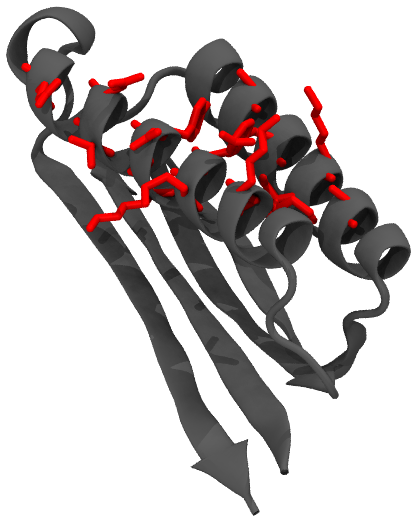
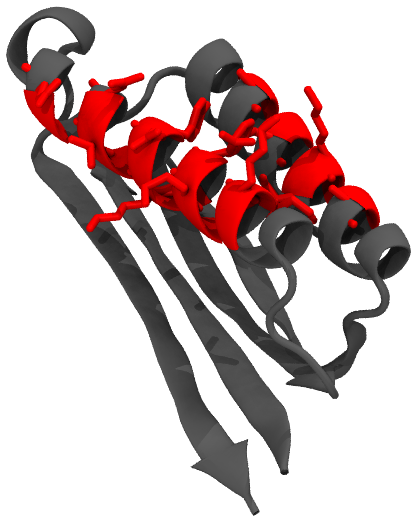
docs(figures): highlight the ribbon as well as licorice; cache-bust images
- render_epitope_fig.tcl / render_islands.tcl: highlighted residues now draw a
  colored NewCartoon ribbon over the grey, in addition to licorice sidechains,
  so the epitope / candidate / island regions read as a colored ribbon segment
  plus sticks. Re-rendered the homepage set and the sequence-segments figure.
- Add ?v=2 to figure image references (home/methods/aomclash) so browsers fetch
  the new renders without a hard refresh.

Claude-Session: https://claude.ai/code/session_01UnbU2XAnf3AQvdSJq3XEXq

Changed region(s): [[0.0625, 0.1228, 0.9375, 0.4914]]

diff --git a/docs/methods.html b/docs/methods.html
@@ -145,7 +145,7 @@ figure.dgm figcaption{font-size:11.5px;color:#6a7686;margin:7px auto 0;max-width
         </svg>
       </div>
       <figure class="fold" style="margin:0">
-        <img src="img/fig/seq_islands.png" loading="lazy"
+        <img src="img/fig/seq_islands.png?v=2" loading="lazy"
              alt="8PWW chain A as a grey ribbon; residues 186-208 (red) and 286-313 (orange) sit next to each other at the top of the fold.">
         <figcaption style="font-size:10.5px;color:#6a7686;margin-top:4px">the two stretches meet in the fold</figcaption>
       </figure>
@@ -187,11 +187,11 @@ figure.dgm figcaption{font-size:11.5px;color:#6a7686;margin:7px auto 0;max-width
     </ul>
     <figure class="dgm">
     <div class="frow">
-      <figure><img src="img/fig/grow_g1.png" loading="lazy" alt="One exposed starting residue in red on the grey molecular surface of 8PWW chain A."><figcaption>1 &middot; pick an exposed seed residue</figcaption></figure>
+      <figure><img src="img/fig/grow_g1.png?v=2" loading="lazy" alt="One exposed starting residue in red on the grey molecular surface of 8PWW chain A."><figcaption>1 &middot; pick an exposed seed residue</figcaption></figure>
       <span class="farrow" aria-hidden="true">&rarr;</span>
-      <figure><img src="img/fig/grow_g2.png" loading="lazy" alt="The seed plus its nearest surface neighbours, a larger red patch on the same surface view."><figcaption>2 &middot; add nearest surface neighbours</figcaption></figure>
+      <figure><img src="img/fig/grow_g2.png?v=2" loading="lazy" alt="The seed plus its nearest surface neighbours, a larger red patch on the same surface view."><figcaption>2 &middot; add nearest surface neighbours</figcaption></figure>
       <span class="farrow" aria-hidden="true">&rarr;</span>
-      <figure><img src="img/fig/grow_g3.png" loading="lazy" alt="A footprint-sized red patch of about sixteen residues on the same surface view."><figcaption>3 &middot; footprint patch (~16 residues)</figcaption></figure>
+      <figure><img src="img/fig/grow_g3.png?v=2" loading="lazy" alt="A footprint-sized red patch of about sixteen residues on the same surface view."><figcaption>3 &middot; footprint patch (~16 residues)</figcaption></figure>
     </div>
     <figcaption>Rendered from 8PWW chain A (molecular surface), using the actual growth procedure:
     growth starts at one exposed surface residue (red) and accretes its nearest surface neighbours until
@@ -201,7 +201,7 @@ figure.dgm figcaption{font-size:11.5px;color:#6a7686;margin:7px auto 0;max-width
     <figure class="dgm">
     <div class="frow">
       <figure class="dirwrap">
-        <img src="img/fig/dir_da.png" loading="lazy" alt="The 8PWW surface with one surface cap highlighted in blue near the top; an arrow shows the viewing direction that would contact it.">
+        <img src="img/fig/dir_da.png?v=2" loading="lazy" alt="The 8PWW surface with one surface cap highlighted in blue near the top; an arrow shows the viewing direction that would contact it.">
         <svg viewBox="0 0 100 100" preserveAspectRatio="none" style="position:absolute;inset:0;width:100%;height:100%;pointer-events:none" aria-hidden="true">
           <defs><marker id="dm1" markerWidth="7" markerHeight="7" refX="5" refY="3" orient="auto"><path d="M0,0 L6,3 L0,6 Z" fill="#1b4a86"/></marker></defs>
           <line x1="3" y1="2" x2="30" y2="20" stroke="#1b4a86" stroke-width="2.4" vector-effect="non-scaling-stroke" marker-end="url(#dm1)"/>
@@ -209,7 +209,7 @@ figure.dgm figcaption{font-size:11.5px;color:#6a7686;margin:7px auto 0;max-width
         <figcaption>direction 1 &rarr; cap 1</figcaption>
       </figure>
       <figure class="dirwrap">
-        <img src="img/fig/dir_db.png" loading="lazy" alt="The same 8PWW surface and view with a different surface cap highlighted in blue near the bottom; a second arrow shows the viewing direction that would contact it.">
+        <img src="img/fig/dir_db.png?v=2" loading="lazy" alt="The same 8PWW surface and view with a different surface cap highlighted in blue near the bottom; a second arrow shows the viewing direction that would contact it.">
         <svg viewBox="0 0 100 100" preserveAspectRatio="none" style="position:absolute;inset:0;width:100%;height:100%;pointer-events:none" aria-hidden="true">
           <defs><marker id="dm2" markerWidth="7" markerHeight="7" refX="5" refY="3" orient="auto"><path d="M0,0 L6,3 L0,6 Z" fill="#1b4a86"/></marker></defs>
           <line x1="2" y1="58" x2="40" y2="82" stroke="#1b4a86" stroke-width="2.4" vector-effect="non-scaling-stroke" marker-end="url(#dm2)"/>

diff --git a/docs/home.html b/docs/home.html
@@ -105,7 +105,7 @@ code{font-family:"Courier New",Courier,monospace;font-size:12px;background:#f0f0
         <div class="card-t">Scaffold a selected epitope</div>
       </div>
       <div class="card-b">
-        <img class="ill" src="img/fig/antigen_epitope.png" loading="lazy"
+        <img class="ill" src="img/fig/antigen_epitope.png?v=2" loading="lazy"
              alt="The 8PWW antigen (PfRH5) as a grey ribbon with the selected epitope residues highlighted in red.">
         <p class="ill-cap"><b style="color:#5c636b">Antigen</b> (grey ribbon) with the
         <b style="color:#c0392b">selected epitope</b> in red. 8PWW chain A (PfRH5).</p>
@@ -131,9 +131,9 @@ code{font-family:"Courier New",Courier,monospace;font-size:12px;background:#f0f0
       </div>
       <div class="card-b">
         <div class="candrow">
-          <figure><img src="img/fig/cand_a.png" loading="lazy" alt="One candidate surface region highlighted in blue on the 8PWW antigen."><figcaption>candidate 1</figcaption></figure>
-          <figure><img src="img/fig/cand_b.png" loading="lazy" alt="A second candidate surface region highlighted in blue on the same antigen."><figcaption>candidate 2</figcaption></figure>
-          <figure class="sel"><img src="img/fig/cand_selected.png" loading="lazy" alt="A candidate region selected for design, highlighted in red on the same antigen."><figcaption>selected</figcaption></figure>
+          <figure><img src="img/fig/cand_a.png?v=2" loading="lazy" alt="One candidate surface region highlighted in blue on the 8PWW antigen."><figcaption>candidate 1</figcaption></figure>
+          <figure><img src="img/fig/cand_b.png?v=2" loading="lazy" alt="A second candidate surface region highlighted in blue on the same antigen."><figcaption>candidate 2</figcaption></figure>
+          <figure class="sel"><img src="img/fig/cand_selected.png?v=2" loading="lazy" alt="A candidate region selected for design, highlighted in red on the same antigen."><figcaption>selected</figcaption></figure>
         </div>
         <p class="ill-cap">The same antigen and view; each panel highlights a different
         <b style="color:#2b47d6">candidate region</b>. Inspect them and select one or more
@@ -170,7 +170,7 @@ code{font-family:"Courier New",Courier,monospace;font-size:12px;background:#f0f0
     <div class="shared-h">Shared workflow</div>
     <div class="shared-body">
       <div class="shared-ill">
-        <img class="ill" src="img/fig/design_scaffold.png" loading="lazy"
+        <img class="ill" src="img/fig/design_scaffold.png?v=2" loading="lazy"
              alt="A real episcaf scaffold design, a smaller grey fold carrying the same epitope residues in red.">
         <p class="ill-cap">A real <b style="color:#5c636b">designed scaffold</b> carrying the same
         <b style="color:#c0392b">epitope</b> (red).</p>

diff --git a/docs/aomclash.html b/docs/aomclash.html
@@ -138,7 +138,7 @@ ul.tight li{margin:4px 0}
   there.</p>
 
   <div class="fig">
-    <img src="img/fig/aom_slice.png" style="display:block;width:100%;max-width:580px;height:auto;margin:0 auto" loading="lazy"
+    <img src="img/fig/aom_slice.png?v=2" style="display:block;width:100%;max-width:580px;height:auto;margin:0 auto" loading="lazy"
          alt="A slice of the real antibody-occupancy map in the epitope frame: probability of antibody occupancy versus outward distance and in-plane position, peaking about 14 angstroms out. A free scaffold atom beyond the 4-angstrom boundary is counted; an atom within 4 angstroms of the antigen is excluded.">
     <div class="figcap"><b>A slice of the actual stored occupancy map</b> (mean over 1,029 SAbDab
     complexes), in the epitope frame. Occupancy is near zero at the epitope, peaks about 14&nbsp;&Aring;
